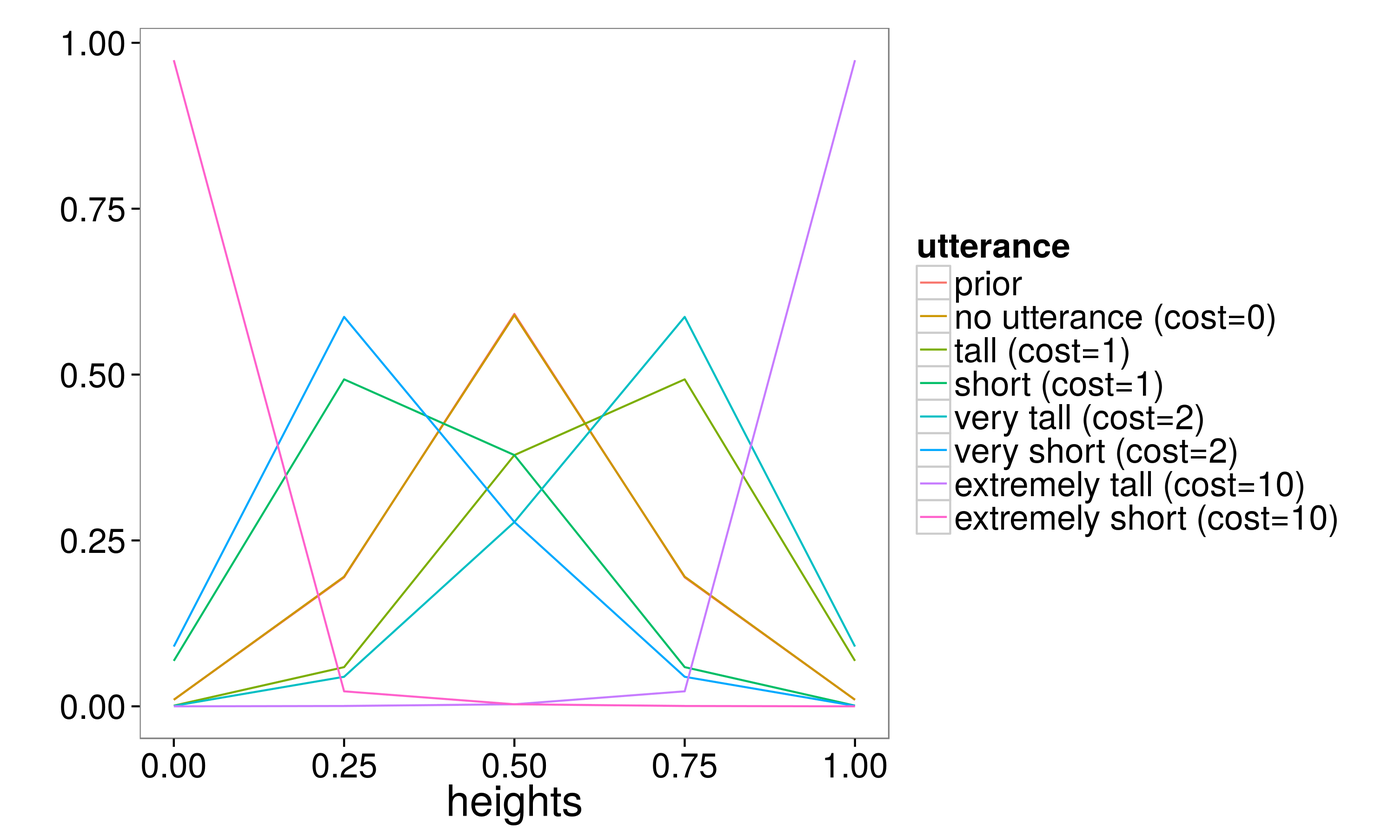
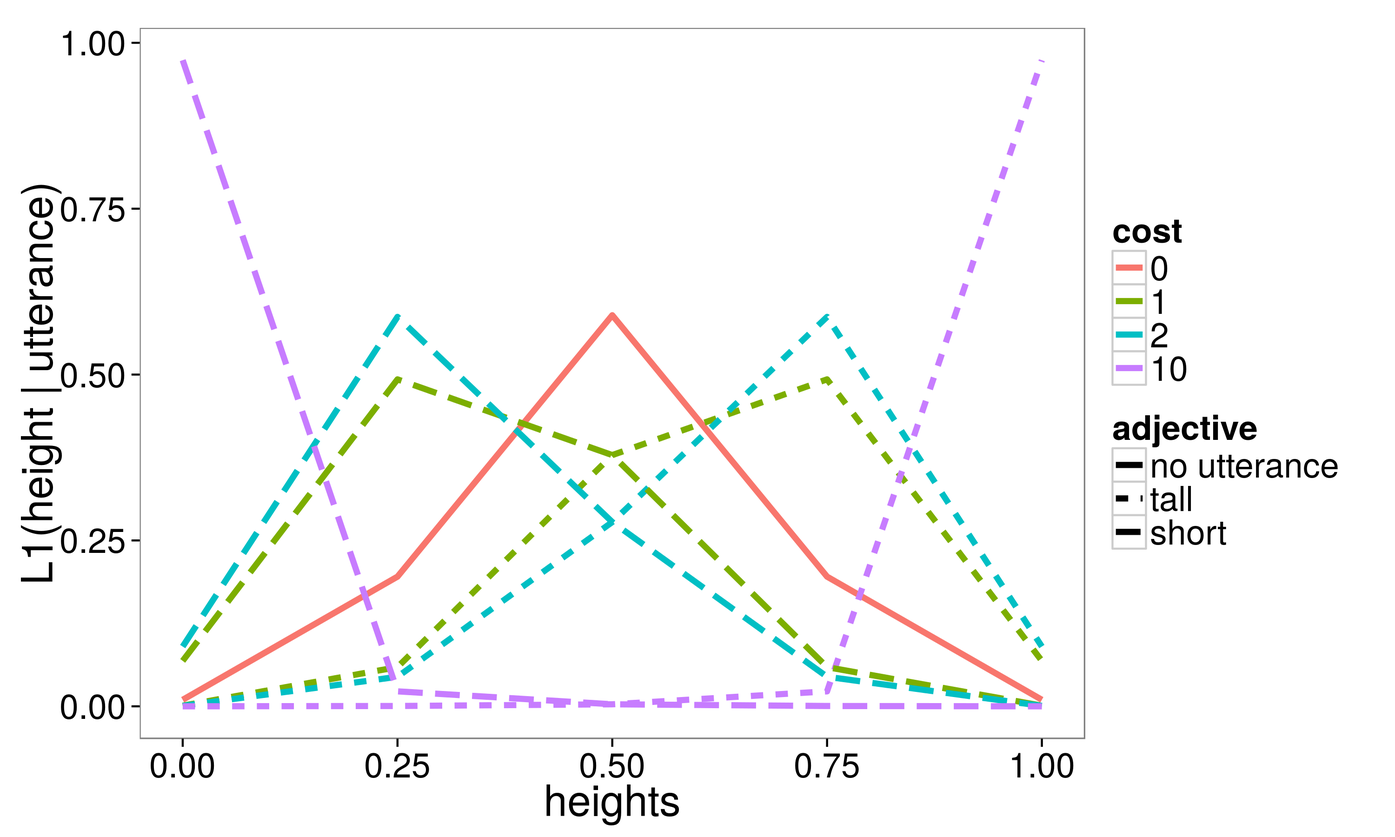
more notes

diff --git a/writeup/intensifiers.tex b/writeup/intensifiers.tex
@@ -8,6 +8,7 @@
 \usepackage{caption}
 \usepackage{subcaption}
 \usepackage{color}
+\usepackage{amsfonts}
 
 \newcommand{\w}[1]{\emph{#1}}
 \newcommand{\todo}[1]{{\color{red}#1}}
@@ -47,7 +48,7 @@
 
 \begin{abstract}
 
-We formalize an analaysis of intensifying degree adverbs, which predicts an implicature that more marked adverbs will correspond to stronger interpretations. We test this qualitative prediction in two correlational studies with two dependent measures and show that higher utterance costs predict stronger meanings for intensifiers.
+We show how the wide range of strengths of intensifying degree adverbs (e.g. \w{very} and \w{extremely}) could be explained by pragmatic inference, and predict an implicature that more marked (costly to utter), adverbs will correspond to stronger interpretations. We test this qualitative prediction in two correlational studies with two dependent measures and show that higher utterance costs predict stronger meanings for intensifiers.
 
 \textbf{Keywords:} 
 intensifiers; degree adverbs; scalar adjectives; pragmatics; m-implicature
@@ -58,89 +59,80 @@ intensifiers; degree adverbs; scalar adjectives; pragmatics; m-implicature
 % this suggests there's a route to word meanings which is not conventional lexicon thing or ideographic (form) features of words. this is a different things.
 % just say that it now has the “figuratively” meaning in the dictionary, i think at least merriem-webster has it
 
-How do different words get their various meanings? For instance, why is an ``extremely good paper'' better than a ``quite good paper''? The traditional answer \cite{saussure} is that different meanings have been arbitrarily and conventionally assigned to the different word forms.
-But word meanings can be associated with various properties that are not purely lexical or semantic. In some cases, the phonetic form of a word is systematically related to its meaning, for example rounded vowels and voiced consonants tend to refer to round objects \cite{maluma-takete, bouba-kiki, bouba-kiki2, takete-uloomo}. In other cases, orthographic form is diagnostic of meaning, for example speakers of Hebrew who have never seen Chinese characters are nonetheless above chance at matching them to their corresponding Hebrew words \cite{koriat}. And lengths of words can also predict aspects of their meanings: across languages longer words refer to more complex meanings \cite{lewis}.
+How do different words get their meanings?
+%say something about the shared semantics and nuanced differences among members of the broad class of intensifiers at the outset
+For instance, why is an ``extremely good paper'' better than a ``quite good paper''? The traditional answer \cite{saussure} is that different meanings have been arbitrarily and conventionally assigned to the different word forms.
+But word meanings can be associated with various properties that are not purely lexical. In some cases, the phonetic form of a word is systematically related to its meaning, for example rounded vowels and voiced consonants tend to refer to round objects \cite{maluma-takete, bouba-kiki, bouba-kiki2, takete-uloomo}. In other cases, orthographic form is diagnostic of meaning, for example speakers of Hebrew who have never seen Chinese characters are nonetheless above chance at matching them to their corresponding Hebrew words \cite{koriat}. And lengths of words can also predict aspects of their meanings: across languages longer words refer to more complex meanings \cite{lewis}.
 In this paper,
 we explore adjectival intensifiers\footnote{Intensifiers are adverbs that modify scalar adjectives to increase the degree. The word ``intensifier'' is often used to denote the full range of degree adverbs, be they ``amplifiers'', or ``downtoners'' \cite{quirk}. The ``intensifiers'' we are looking at in this paper are, according to this typology, ``amplifiers'' because they increase (rather than decrease) the threshold associated with a gradable predicate. This typology also distinguishes between two different kinds of amplifiers, some that increase an adjective maximally (e.g. \w{completely} and \w{utterly}) and some that merely increase (e.g. \w{greatly} and \w{terribly}). We do not make this distinction. The word ``intensifier'' is also used for a completely different linguistic phenomenon, where a reflexive is used for emphasis, e.g. ``The king himself gave the command,'' which we do not analyze in this paper.}, like \w{extremely} and \w{quite},
-as a case study in which to empirically explore the relationship of meaning to form and distribution of usage.
+as a case study in which to empirically explore the relationship of meaning to factors like form and distribution of usage.
 \todo{why are intensifiers a good domain to look at the arbitrariness question in? add a sentence that makes this clear}
+%again, something about their shared core semantics, yet nuanced differences in meaning, form, and frequency
 
 We present a hypothesis that the varied meanings of intensifiers are influenced by their form (in length) and their distribution of usage.
 In our experiments, we identify a relationship between the frequency and length of an intensifier on the one hand and its interpretation on the other.
 \todo{say more}
 
-We first introduce a model of intensifiers which predicts an M(arkedness)-implicature \cite{levinson}, where more marked (costly to utter) intensifiers will be interpreted as referring to higher degrees (e.g. \w{phenomenally tall} will probably refer to a much greater height than \w{quite tall} since the former is longer and more surprising and so more costly to produce or comprehend).
-We then confirm, in two experiments, that interpretations of English intensifiers in adjective phrases will indeed refer to much higher degrees (e.g. in the case of \w{tall}, greater heights) for more marked (longer and less frequent) intensifiers. We conclude with a discussion of alternative explanations for this correlation and future directions.
+%might as well say here that you think formalize the M-implicature model within a Bayesian RSA framework
+%they don’t, strictly speaking, refer to degrees. “implicate higher degrees” would be better
+We first introduce a model of intensifiers within a Bayesian Rational Speech Act (RSA) framework which predicts an M(arkedness)-implicature \cite{levinson}, where more marked (costly to utter) intensifiers will be interpreted as implicate higher degrees (e.g. \w{phenomenally tall} will probably implicate a much greater height than \w{quite tall} since the former is longer and more surprising and so more costly to produce or comprehend).
+We then confirm, in two experiments, that interpretations of English intensifiers in adjective phrases will indeed implicate much higher degrees (e.g. in the case of \w{tall}, greater heights) for more marked (longer and less frequent) intensifiers. We conclude with a discussion of alternative explanations for this correlation and future directions.
 \todo{more?}
 
 
 \section{Motivation: possible semantics of intensifying degree adverbs}
 
-Our paper focuses on intensifying degree adverbs applied to scalar adjectives\footnote{Some of these intensifiers can also apply to verbal and nominal predicates, and different restrictions apply for different intensifiers, e.g. \w{I truly like carrots} is an acceptable utterance, whereas \w{I very like carrots} is not. See \citeA{bolinger} for a discussion.}. Scalar adjectives have been described as having a threshold semantics \cite{kennedy}, where, for example, \w{tall} means ``having a height greater than \$$\theta$'' and $\theta$ is a %\emph{relative}
-semantic variable inferred from context. Above the threshold degree $\theta$, the adjective is true of an object, and below the adjective is false.
+Our paper focuses on intensifying degree adverbs applied to scalar adjectives\footnote{Some of these intensifiers can also apply to verbal and nominal predicates, and different restrictions apply for different intensifiers, e.g. \w{I truly like carrots} is an acceptable utterance, whereas \w{I very like carrots} is not. See \citeA{bolinger} for a discussion.}. Scalar adjectives have been described as having a threshold semantics \cite{kennedy}, where, for example, \w{tall} means ``having a height greater than $\theta$'' and $\theta$ is a %\emph{relative}
+semantic variable inferred from context (e.g., six feet). Above the threshold degree $\theta$, the adjective is true of an object, and below, the adjective is false.
 \citeA{lassiter} give a formal model of how this threshold might be inferred, which we extend to intensifiers.
 
 \subsection{Background}
-Previous researchers have proposed that adjective phrases modified by intensifiers have the same semantics as unmodified adjective phrases, except with new, higher thresholds. That is, some threshold, inferred from context exists above which objects are \w{tall}, and the intensifier \w{very} changes this to determine a new, higher threshold for \w{very tall}. These new thresholds might be transformations of the original threshold \cite{kennedyMcnally1999}, e.g. the threshold for \w{very tall} is some amount higher than the threshold for \w{tall}.
-Alternatively, the new thresholds might be inferred by changing the comparison class to only those objects for which
-the bare adjective is true,
-so that, for example, \w{very tall basketball player} means ``tall, even among tall basketball players'' \cite{klein, kennedyMcnally, wheeler}.
-The latter analysis results in the expected intensification of adjectives (``tall, even among tall basketball players'' has a higher threshold for being true than simple ``tall for a basketball player'') and is appropriately sensitive to different domains (e.g. the absolute difference in height between thresholds for \w{tall} and \w{very tall} is much higher in the context of ``This building is very tall,'' than in the context of ``This coffee mug is very tall.'').
+Previous researchers have proposed that adjective phrases modified by intensifiers have the same semantics as unmodified adjective phrases, except with new, higher thresholds \cite{kennedyMcnally, klein, wheeler}. That is, some threshold, inferred from context, exists above which objects are \w{tall} and below which they are not, and the intensifier \w{very} determines a new, higher threshold for \w{very tall}.
+They suggest that the intensified thresholds are determined by first collecting the set of objects in the context class for which the bare adjective is true, and then using that as the context class to infer a new threshold, i.e. very expensive laptop means “expensive for an expensive laptop”. This analysis results in the expected intensification of adjectives (``tall, even among tall basketball players'' has a higher threshold for being true than simply ``tall for a basketball player'') and is appropriately sensitive to different domains (e.g. the absolute difference in height between thresholds for \w{tall} and \w{very tall} is much higher in the context of ``This building is very tall,'' than in the context of ``This coffee mug is very tall.'').
 but does not in and of itself distinguish between the strengths of different intensifiers, for example, \w{very tall} and \w{phenomenally tall}.
-The former analysis requires more formalization of where an intensifier's amount of boost might come from.
-
-
-%%greg bookmark
 
 %long, complex, and rare
-Intuition suggests that different intensifiers do have different strengths (e.g. \w{outrageously} seems stronger than \w{quite}), and we provide further evidence of this in our experiments, where participants judge the relative orderings of intensifiers. But are these differences due to learned differences in the lexicon?
+Intuition suggests that different intensifiers do have different strengths (e.g. \w{outrageously} seems stronger than \w{quite}), and we provide further evidence of this in our experiments, where participants judge the orderings of intensifiers. But are these differences due to learned differences in the lexicon?
 %                         - hard (i.e., lots) to learn
-If so, it would be taxing for a learner to learn all the different lexical entries, especially since intensifiers are considered to be so numerous and so productive (e.g. \w{skyscrapingly expensive} is not a phrase I have heard before, but I can easily interpret \w{skyscrapingly} as a novel intensifier).
+If so, it would be taxing for a learner to learn all the different lexical entries, especially since intensifiers are considered to be so productive\footnote{For example, \w{altitidinously expensive} is not in common usage, but one can easily interpret \w{altitidinously} as a novel intensifier.} and so numerous \cite{bolinger}.
 % also borst: borst, eugen: die gradadverbien im englischen 1902
-\cite{bolinger}.
 %                         - loses within-class similarity
 % ``a lexical theory of intensifiers would miss out'' (maybe you would have to spell that out more)
 In addition, having a lexically determined meaning for each different intensifier might overlook the similarity among words of this class.
 
-% - proposal in brief
-%         - meaning as a function of cost
-%                 - m-implicature
-We follow \citeA{kennedyMcnally1999}'s analyses and propose that each adjective has its default threshold for a context, and each intensifier transforms the default threshold of the adjective by some amount. We allow these amounts to be inferred from context, in the same way as the adjective's default threshold is inferred from context in \citeA{lassiter}'s scalar adjectives model.
-So each adjective phrase a speaker might say has its own threshold, composed from the adjective's default threshold and the intensifier's boosting amount. These thresholds and boosts are systematically inferred from context via an M-implicature (more marked intensifiers tend to correspond to higher thresholds).
+We propose that each of the scalar adjective phrases a speaker might say, be it with or without an intensifier, is associated with its own threshold, and these thresholds are systematically inferred from context and via an M-implicature (more marked intensifiers tend to correspond to higher thresholds).
 
-%         - single intensifier semantics (increase theta)
-%         - thresholds inferred
-We formalize this idea by extending \citeA{lassiter}'s model of scalar adjectives, giving different adjective phrases each their own threshold variables. We show that simply having different thresholds for different adjective phrases -- and being aware of alternative utterances and their relative communicative costs -- is sufficient to communicate the wide range of degrees designated by intensifying degree adverbs.
+We extend \cite{lassiter}'s model of scalar adjectives to include a wider range of alternative utterances, each with its own threshold variable\footnote{Other versions of this model could easily be imagined in which the threshold for an adjective phrase is determined by the basic threshold for the adjective and some transformation on that threshold (e.g. multiplication, addition, etc.) caused by the intensifier. If the transformation is mostly regular, with a single parameter needing to be inferred for each intensifier, and if the values of these parameters are inferred for each adjective phrase, then such a model would be functionally equivalent to the one we describe here.}. We show that simply having different thresholds for different adjective phrases -- and being aware of alternative utterances and their relative communicative costs -- is sufficient to communicate the wide range of degrees designated by intensifying degree adverbs.
 
 \subsection{Model}
 
-\todo{introduce Bayesian RSA framework more generally}
+This model is an instance of the family of Rational Speech Act (RSA) models in which speaker and listener communicate by recursively reasoning about each other's goals and inferences. These models have been shown to account for many phenomena in pragmatics \cite{rsa}.
 
-The basic idea of this model is that different adjective phrases have different thresholds, the adjective's default threshold plus\footnote{Or minus, depending on the direction of the adjective on its scale (e.g. \w{extremely short} will have a lower threshold than \w{short} whereas \w{extremely tall} will have a higher threshold than \w{tall}). Other versions of this model could be imagined in which the intensifier transforms the threshold via multiplication or some other function, but would have very similar functionality.} some boosting amount which must be inferred, but otherwise mean roughly the same thing, e.g. \w{very tall} and \w{phenomenally tall} both mean
+\cite{lassiter}'s model of scalar adjetives includes a lifted semantic variable, which the listener has to infer at the same time as inferring the speaker's intended meaning. We allow every adjective phrase to have its own such variable $\theta_i$ but to otherwise mean the same thing, so that, for example, \w{tall}, \w{very tall} and \w{phenomenally tall} all mean:
 
-\[ \lambda x . tall(x) > \theta_{tall} + \epsilon_i \]
+\[ \lambda x . height(x) > \theta_i \]
 
-where each intensifier $i$ gets its own boosting amount $\epsilon_i \in E$ and the boosting amount for \w{tall} is 0. 
-Given an utterance $u_i$ (e.g. \w{a tall girl} or \w{a very tall girl}) and a set of thresholds and boosting amounts, a literal listener $L_0$ will simply update their prior beliefs $P(d)$ about the object's degree $d$ (e.g. the girl's height in cm) given that the degree is greater than the boosted threshold for that utterance.
+Given an utterance $u_i$ (e.g. a \w{tall girl} or a \w{very tall girl}) and a set of thresholds, a literal listener $L_0$ will use Bayesian inference to update their prior beliefs $P(d)$ about the degree $d$ (e.g. the girl's height) given that the degree is greater than the threshold for that utterance.
 
-\[ L_0(d | u_i) \propto P(d) \cdot \delta_{d > \theta_{tall} + \epsilon_i } \]
+\[ L_0(d|u_i, \theta_i) \propto P(d) \cdot \delta_{d > \theta_i} \]
 
-Given a set of thresholds, boosting amounts and alternative utterances, a speaker $S_1$ will choose utterances according to a softmax decision rule \cite{sutton}, preferring to have low utterance cost $C(u_i)$\footnote{Though this model naturally incorporates production cost, speakers might also seek to minimize comprehension cost for their listeners as well, which would have a similar effect.}
-and high probability of a literal listener correctly inferring the degree.
+Given a set of thresholds, a speaker with the goal of communicating some actual degree $d$ can assign a utility $\mathbb{U}(u_i|d)$ to each utterance such that prefers lower utterance costs $C(u_i)$\footnote{Though this model naturally incorporates production cost, speakers might also seek to minimize comprehension cost for their listeners as well, which would have a similar effect.} and less information still unkown to the literal listener after the utterance (the listener's surprisal at hearing the true degree after updating their beliefs based on the speaker's utterance).
 
-\[ S_1(u_i | d) \propto e^{\lambda \cdot ( log(L_0(d | u_i)) - C(u_i) )} \]
+\[ \mathbb{U}(u_i | d, \theta_i) = - C(u_i) - log\left(\frac{1}{L_0(d | u_i, \theta_i)}\right) \]
 
-where $\lambda$ is an optimality parameter. A pragmatic listener $L_1$ can use the prior probabilities of different degrees along with their knowledge of how much effort the speaker chose to expend to guess both what the different thresholds and boosting amounts were for the different utterances and which degree the speaker intended to communicate.
+Given a set of alternative utterances (e.g. the speaker might be choosing between saying \w{very tall} as opposed to \w{tall} or \w{extremely tall}), a speaker $S_1$ will choose utterances according to a softmax decision rule \cite{sutton} with optimality parameter $\lambda$, so that given their utility for an utterance, their probability of choosing that utterance will be:
 
-\[ L_1(d, \theta, E | u_i) \propto P(d) \cdot S_1(u_i | d) \]
+\[ S_1(u_i | d, \theta_i) \propto e^{\lambda \mathbb{U}(u_i | d, \theta_i)} \]
+
+A pragmatic listener $L_1$ can use the prior probabilities of different degrees along with their knowledge of how much effort the speaker chose to expend\footnote{We assume a uniform prior on thresholds $\theta_i$.} in order to guess both what the different thresholds were for the different utterances and which degree the speaker intended to communicate.
+
+\[ L_1(d, \theta_i | u_i) \propto P(d) \cdot S_1(u_i | d, \theta_i) \]
 
 %% unclear
-As an initial exploration, we simulated such a model with three levels of utterance cost on an imaginary ``heights'' domain. The prior distribution for this domain was a gaussian peaked at 0.0.
+As an initial exploration, we simulated such a model with three levels of utterance cost (1, 2, and 10, as well as a null utterance cost of 0) on an imaginary ``heights'' domain. The prior distribution for this domain was a gaussian peaked at 0.0.
 %rerun sim so this is true.
-We had two different adjectives, \w{tall} and \w{short}. Each adjective recieved its own threshold variable and each intensifier received its own boosting amount. At the literal level, something is considered \w{[intensifier] tall} if its height is greater than $\theta_{tall} + \epsilon_{[intensifier]}$ and \w{short} if its height is less than $\theta_{short} - \epsilon_{[intensifier]}$.  We used an optimality parameter of $\lambda=5$ in our simulation. This simulation shows an M-implicature, with the more costly intensifiers corresponding to less probable, more extreme heights (Figure ~\ref{model}).
+We had two different adjectives, \w{tall} and \w{short}. Each intensifier-adjective pairing recieved its own threshold. At the literal level, something is considered \w{[intensifier] tall} if its height exceeds the threshold for that utterance and \w{[intensifier] short} if its height is less than the threshold.  We used an optimality parameter of $\lambda=5$ in our simulation. This simulation shows an M-implicature, with the more costly intensifiers corresponding to less probable, more extreme heights (Figure ~\ref{model}).
 %``my paper is totally done'' when you expect it to be done: might actually mean that it's almost done.
-
-% Simulation results of intensifier meanings with arbitrarily chosen ``costs'' on a discretized scale of normally distributed ``heights'' are shown in Figure~\ref{model}.
 
 %% this simulation is actually run with the following assumptions:
 % short : x < theta_short - epsilon default
@@ -168,7 +160,7 @@ Communicative cost, or markedness,
 might be influenced by a variety of factors.
 
 %However, f
-For the purposes of this paper, we use quantities for costs that are easy to quantify: length (longer utterances are more costly)\footnote{We measure length in number of syllables, although length in characters (which might be a relevant source of utterance cost in a written format, as our partipants experienced) has similar
+For the purposes of this paper, we use quantities for costs that are straightforward to quantify: length (longer utterances are more costly)\footnote{We measure length in number of syllables, although length in characters (which might be a relevant source of utterance cost in a written format, as our partipants experienced) has similar
 %(and in fact, slightly higher)
 predictive power to syllable length in all of our analyses.}
 %if we ran the same thing with audio, would syllables be a better predictor?
@@ -187,14 +179,14 @@ might enter into cost.
 % limitations of correlational studies in this domain
 %%%%% make this clearer
 \subsection{Limitations of these methods}
-It should be noted that, this is a correlational study, finding it would not confirm that an intensifier's cost \emph{actually causes} its meaning. This correlation is predicted by the model sketched above, but it might be predicted by a variety of other analyses of intensifiers and their meanings. Rarity in particular might be correlated with strength of meaning merely because more extreme meanings refer to less probable things in the world, are therefore talked about less, and therefore the words with those meanings will necessarily be rarer. Although it seems reasonable to suspect that word frequencies reflect the probabilities of the real-world concepts they describe, it might also be the case that improbable things are more likely to be commented on, and so to a certain extent the frequencies of words that describe rare concepts will be inflated. Even so, this confound exists only for word frequency and not for syllable length.
+It should be noted that, since this is a correlational study, finding such a relationship would not confirm that an intensifier's cost \emph{actually causes} its meaning. This correlation is predicted by the model sketched above, but it might be predicted by a variety of other analyses of intensifiers and their meanings. Rarity in particular might be correlated with strength of meaning merely because more extreme meanings refer to less probable things in the world, are therefore talked about less, and therefore the words with those meanings will necessarily be rarer. Although it seems reasonable to suspect that word frequencies reflect the probabilities of the real-world concepts they describe, it might also be the case that improbable things are more likely to be commented on, and so to a certain extent the frequencies of words that describe rare concepts will be inflated. Even so, this confound exists only for word frequency and not for syllable length.
 %citation?
 The length of a word seems much less likely to reflect the real-word prevalence of the concept it refers to.
 
 % ## Expt. 1
 \section{Experiment 1}
 
-The proposal detailed above predictions an association between measures of cost and strength of interpretations. In Experiments 1, we test this qualitative prediction%, and look at whether the cost associated with different intensifiers can predict their interpretations.
+The proposal detailed above predicts an association between measures of cost and strength of interpretations. In Experiment 1, we test this qualitative prediction %, and look at whether the cost associated with different intensifiers can predict their interpretations.
 by eliciting free response prices from people and determining whether these prices are correlated with independent measures of utterance cost.
 
 % - design and materials
@@ -415,7 +407,6 @@ We provide evidence that intensifier meanings are not mapped arbitrarily to word
 %make it sound like ``this is a reasonable thing to do.
 %then in the discussion say, ''that was reasonable, but there are other reasonable things. for example:
 %%%% 
-%%%%%Peters (1994) notes that, since intensifiers often originate as qualitative adverbs and gradually shift to being primarily adverbs of degree, interlocuters might have to resolve ambiguity about which sense of the adverb is intended. Peters suggests that adverbs that are less commonly used as intensifiers (i.e. that are still frequently used to communicate more qualitative information) will likely be more cognitively demanding to interpret as intensifiers. Given this, by our hypothesis, we would predict that such newer, ambiguous intensifiers would indicate higher degrees, all else being equal. %are there other measures worth mentioning?
 %justine: ``C(u) is the psychological cost of an utterance, potentially determined by factors such as the utterance's frequency, availability, and complexity.
 %
 %%%maybe this should be a footnote:
@@ -428,6 +419,10 @@ However, the causal direction could also be the opposite.
 Perhaps the fact that an intensifier has a stronger meaning (which it may have gotten completely arbitrarily) causes it to be used only in extreme and unusual circumstances.
 
 Further work will provide more thorough tests of our model hypothesis, for example determining whether length and frequency are causes of intensifier meanings, and investigate to what extent the M-implicature described in our hypothesis is consistently computed online and to what extent it might be conventionalized.
+
+We could also investigate other sources of commicative cost. \cite{peters} %Peters (1994)
+notes that, since intensifiers often originate as qualitative adverbs and gradually shift to being primarily adverbs of degree (e.g. terribly once only carried the qualitative meaning of ``bad and frightening'', but now almost exclusively means simply ``a lot''), interlocuters might have to resolve ambiguity about which sense of the adverb is intended and that resolving this ambiguity could be cognitively demanding. So intensifiers that are newer and less conventially used to signal degree, like \w{skyscrapingly}, would incur higher communicative cost to the comprehender (in disambiguating) and to the speaker (in choosing a less common meaning, or creatively generating a new intensifier) than something more commonly used to signal degree, like \w{very}.\footnote{The extent to which an adverb is used as an intensifier as opposed to as a qualitative adverb can be approximated by the number of types of adjectives an adverb can coocur with. The more freely it is able to pair with arbitrary adverbs, the more likely its conventional meaning is one of degree as opposed to quality.}
+
 % ## General Discussion
 % - m-implicature theory of intensifier interpretation
 %         - benefits
